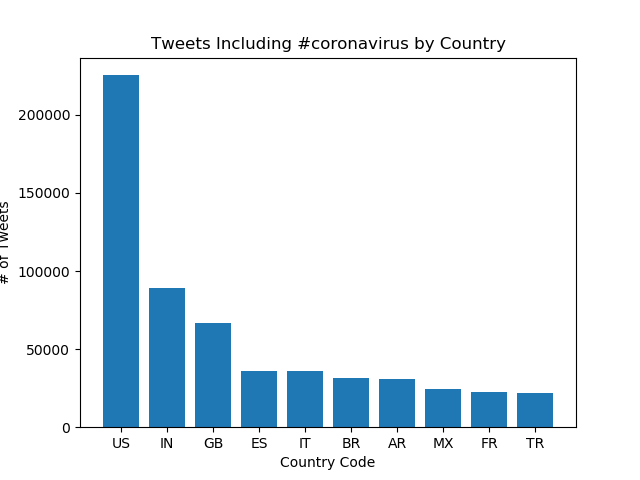
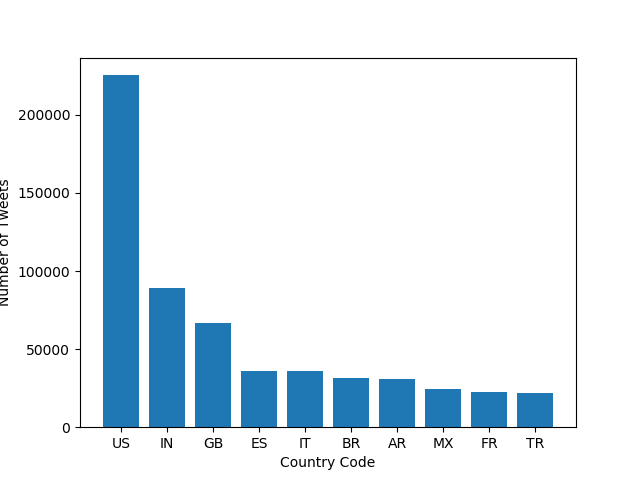
attempt 8 and alternative attempt 7

Changed region(s): [[0.25, 0.0625, 0.7812, 0.125], [0.0, 0.375, 0.0312, 0.6562]]

diff --git a/src/visualize.py b/src/visualize.py
@@ -40,20 +40,20 @@ for k,v in items:
 n = len(keys)
 ind = np.arange(n)
 fig = plt.bar(ind, values)
-plt.ylabel('# of Tweets')
+plt.ylabel('Number of Tweets')
 plt.xticks(ind, keys)
-title = 'Tweets Including'
-if "coronavirus" in args.key:
-    title += f' {args.key} by'
-else:
-    title += " the Korean Coronavirus Hashtag by"
+#title = 'Tweets Including'
+#if "coronavirus" in args.key:
+    #title += f' {args.key} by'
+#else:
+    #title += " the Korean Coronavirus Hashtag by"
 if "country" in args.input_path:
-    title += ' Country'
+    #title += ' Country'
     axis = 'Country Code'
 else:
-    title += 'language'
-    axis = 'Language'
-plt.title(title)
+    #title += 'language'
+    axis = 'Language Code'
+#plt.title(title)
 plt.xlabel(axis)
 # fig, ax = plt.subplots(nrows=1, ncols=1)
 # ax.plot(keys[0:11], values[0:11])

diff --git a/src/alternative_reduce.py b/src/alternative_reduce.py
@@ -32,11 +32,11 @@ for key in args.keys:
                 print('man')
             yaxis.append(num)
     plt.plot(np.arange(366), yaxis, label = key)
-n = len(args.keys)
-ind = np.arange(n)
-plt.ylabel('# of Tweets')
-plt.xticks(ind, args.keys)
-plt.xlabel('Day')
+plt.ylabel('Number of Tweets')
+dates = [0, 58, 119, 180, 242, 303]
+months = ['Jan.', "March", "May", "July", "Sept.", "Nov."]
+plt.xticks(dates, months)
+plt.xlabel('Date')
 # fig, ax = plt.subplots(nrows=1, ncols=1)
 # ax.plot(keys[0:11], values[0:11])
 plt.legend()
